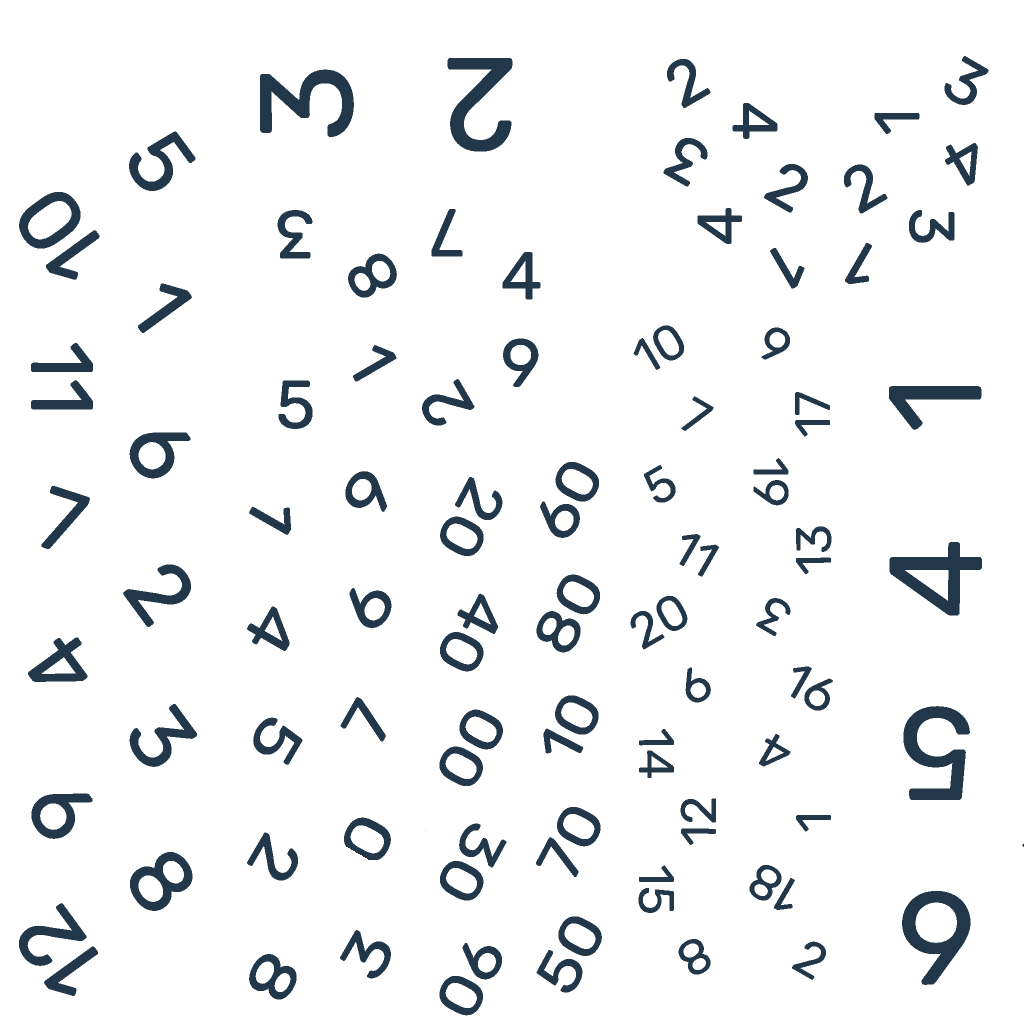
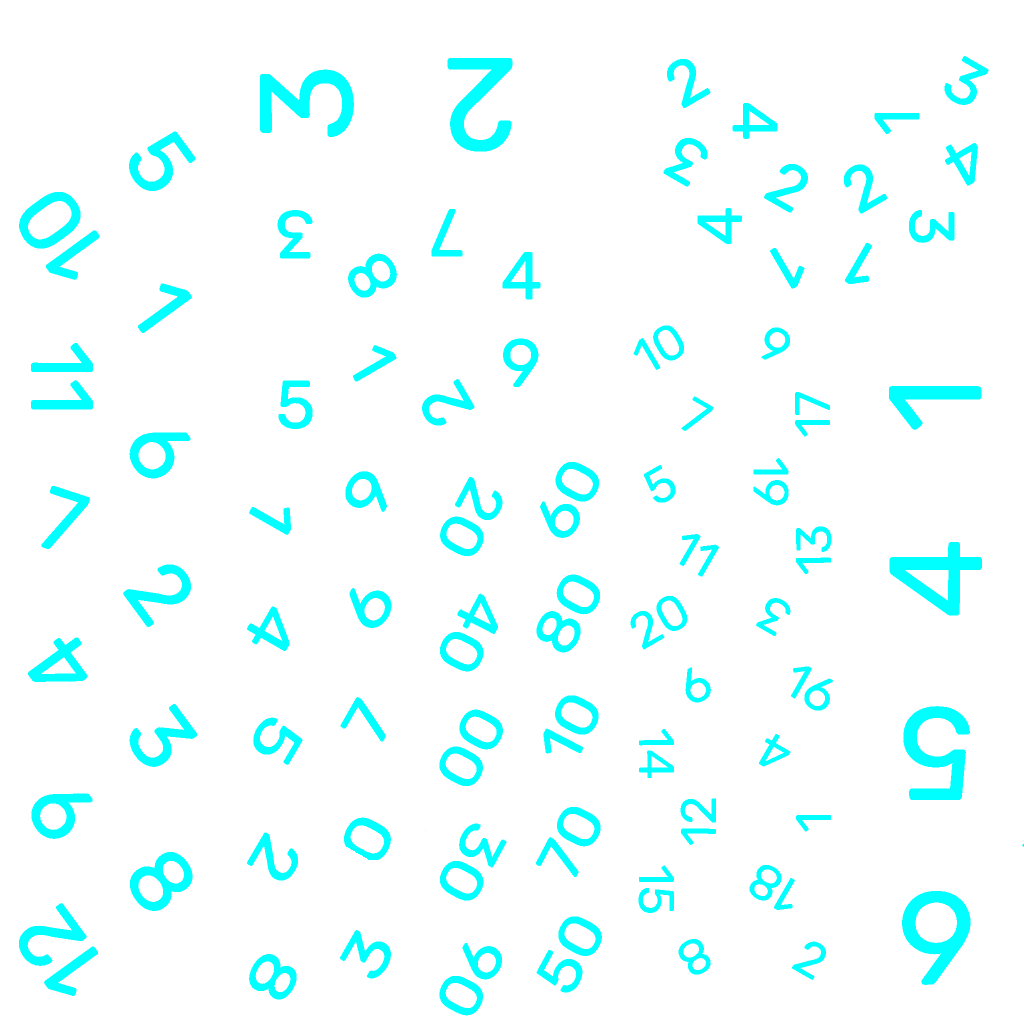
style(dice): match tens die to GM Map Manager button and darken ones die by 50%

diff --git a/client/test/PercentileDiceColors.test.js b/client/test/PercentileDiceColors.test.js
@@ -1,0 +1,114 @@
+import { describe, it, expect } from 'vitest';
+import fs from 'fs';
+import path from 'path';
+import sharp from 'sharp';
+import { calculatePercentileRoll } from '../src/utils/diceUtils.js';
+
+describe('Percentile Dice Custom Colors', () => {
+  const rpgPath = path.resolve(__dirname, '../src/views/RpgVttView.vue');
+  const spacePath = path.resolve(__dirname, '../src/views/SpaceVttView.vue');
+  const rpgContent = fs.readFileSync(rpgPath, 'utf-8');
+  const spaceContent = fs.readFileSync(spacePath, 'utf-8');
+
+  describe('3D Dice Themes', () => {
+    it('custom-tens diffuse texture has numbers colored #00ffff matching GM Map manager text', async () => {
+      const diffPath = path.resolve(__dirname, '../public/assets/dice-box/themes/custom-tens/diffuse-light.png');
+      expect(fs.existsSync(diffPath)).toBe(true);
+      const { data } = await sharp(diffPath).raw().toBuffer({ resolveWithObject: true });
+      let foundMatchingPixel = false;
+      for (let i = 0; i < data.length; i += 4) {
+        if (data[i + 3] > 200) {
+          // Check for #00ffff (r=0, g=255, b=255)
+          if (data[i] === 0 && data[i + 1] === 255 && data[i + 2] === 255) {
+            foundMatchingPixel = true;
+            break;
+          }
+        }
+      }
+      expect(foundMatchingPixel).toBe(true);
+    });
+
+    it('custom-ones diffuse texture retains original #77d19e numbers', async () => {
+      const diffPath = path.resolve(__dirname, '../public/assets/dice-box/themes/custom-ones/diffuse-light.png');
+      expect(fs.existsSync(diffPath)).toBe(true);
+      const { data } = await sharp(diffPath).raw().toBuffer({ resolveWithObject: true });
+      let foundMatchingPixel = false;
+      for (let i = 0; i < data.length; i += 4) {
+        if (data[i + 3] > 200) {
+          // Check for #77d19e (r=0x77=119, g=0xd1=209, b=0x9e=158)
+          if (data[i] === 0x77 && data[i + 1] === 0xd1 && data[i + 2] === 0x9e) {
+            foundMatchingPixel = true;
+            break;
+          }
+        }
+      }
+      expect(foundMatchingPixel).toBe(true);
+    });
+  });
+
+  describe('VTT Views Dice Configurations', () => {
+    it('configures tens die with GM Map Manager background #082d33 and ones die 50% darker #111c25 in RpgVttView', () => {
+      expect(rpgContent).toContain("theme: 'custom-tens', themeColor: '#082d33'");
+      expect(rpgContent).toContain("theme: 'custom-ones', themeColor: '#111c25'");
+      expect(rpgContent).not.toContain("theme: 'custom-tens', themeColor: '#77d19e'");
+      expect(rpgContent).not.toContain("theme: 'custom-ones', themeColor: '#182734'");
+    });
+
+    it('configures tens die with GM Map Manager background #082d33 and ones die 50% darker #111c25 in SpaceVttView', () => {
+      expect(spaceContent).toContain("theme: 'custom-tens', themeColor: '#082d33'");
+      expect(spaceContent).toContain("theme: 'custom-ones', themeColor: '#111c25'");
+      expect(spaceContent).not.toContain("theme: 'custom-tens', themeColor: '#77d19e'");
+      expect(spaceContent).not.toContain("theme: 'custom-ones', themeColor: '#182734'");
+    });
+  });
+
+  describe('calculatePercentileRoll with updated colors', () => {
+    it('correctly calculates roll with tens #082d33 and ones #111c25 regardless of order', () => {
+      const roll1 = calculatePercentileRoll([
+        { value: 6, themeColor: '#082d33' },
+        { value: 4, themeColor: '#111c25' }
+      ]);
+      expect(roll1).toEqual({
+        total: 64,
+        tens: 6,
+        ones: 4,
+        valid: true
+      });
+
+      const roll2 = calculatePercentileRoll([
+        { value: 7, themeColor: '#111c25' },
+        { value: 3, themeColor: '#082d33' }
+      ]);
+      expect(roll2).toEqual({
+        total: 37,
+        tens: 3,
+        ones: 7,
+        valid: true
+      });
+    });
+
+    it('supports alternative 50% darker color #0c141a as well as legacy colors', () => {
+      const rollAlt = calculatePercentileRoll([
+        { value: 9, themeColor: '#0c141a' },
+        { value: 2, themeColor: '#082d33' }
+      ]);
+      expect(rollAlt).toEqual({
+        total: 29,
+        tens: 2,
+        ones: 9,
+        valid: true
+      });
+
+      const rollLegacy = calculatePercentileRoll([
+        { value: 8, themeColor: '#182734' },
+        { value: 5, themeColor: '#77d19e' }
+      ]);
+      expect(rollLegacy).toEqual({
+        total: 58,
+        tens: 5,
+        ones: 8,
+        valid: true
+      });
+    });
+  });
+});

diff --git a/client/src/views/SpaceVttView.vue b/client/src/views/SpaceVttView.vue
@@ -1694,8 +1694,8 @@ async function rollPercentile() {
 
   try {
     const results = await executeQueuedDiceRoll(diceBox, [
-      { sides: 10, theme: 'custom-tens', themeColor: '#77d19e', qty: 1 }, // Tens (lighter colored die)
-      { sides: 10, theme: 'custom-ones', themeColor: '#182734', qty: 1 }  // Ones (darker colored die)
+      { sides: 10, theme: 'custom-tens', themeColor: '#082d33', qty: 1 }, // Tens (GM Map manager color)
+      { sides: 10, theme: 'custom-ones', themeColor: '#111c25', qty: 1 }  // Ones (50% darker die)
     ]);
     const rollSummary = calculatePercentileRoll(results);
     if (rollSummary.valid) {
@@ -2376,8 +2376,8 @@ async function executeSnapFlip(options = {}) {
     const diceBox = await getReadyDiceBox();
     try {
       const results = await executeQueuedDiceRoll(diceBox, [
-        { sides: 10, theme: 'custom-tens', themeColor: '#77d19e', qty: 1 },
-        { sides: 10, theme: 'custom-ones', themeColor: '#182734', qty: 1 },
+        { sides: 10, theme: 'custom-tens', themeColor: '#082d33', qty: 1 },
+        { sides: 10, theme: 'custom-ones', themeColor: '#111c25', qty: 1 },
       ]);
       const rollSummary = calculatePercentileRoll(results);
       if (rollSummary.valid) roll = rollSummary.total;
@@ -2536,8 +2536,8 @@ async function executeSlingshot(options = {}) {
 
       try {
         const results = await executeQueuedDiceRoll(diceBox, [
-          { sides: 10, theme: 'custom-tens', themeColor: '#77d19e', qty: 1 },
-          { sides: 10, theme: 'custom-ones', themeColor: '#182734', qty: 1 },
+          { sides: 10, theme: 'custom-tens', themeColor: '#082d33', qty: 1 },
+          { sides: 10, theme: 'custom-ones', themeColor: '#111c25', qty: 1 },
         ]);
         const rollSummary = calculatePercentileRoll(results);
         if (rollSummary.valid) {
@@ -2667,8 +2667,8 @@ async function rollCrewGCheck() {
 
     try {
       const results = await executeQueuedDiceRoll(diceBox, [
-        { sides: 10, theme: 'custom-tens', themeColor: '#77d19e', qty: 1 },
-        { sides: 10, theme: 'custom-ones', themeColor: '#182734', qty: 1 },
+        { sides: 10, theme: 'custom-tens', themeColor: '#082d33', qty: 1 },
+        { sides: 10, theme: 'custom-ones', themeColor: '#111c25', qty: 1 },
       ]);
       const rollSummary = calculatePercentileRoll(results);
       if (rollSummary.valid) {
@@ -2728,8 +2728,8 @@ async function rollFlipAndBurnStaCheck() {
 
     try {
       const results = await executeQueuedDiceRoll(diceBox, [
-        { sides: 10, theme: 'custom-tens', themeColor: '#77d19e', qty: 1 },
-        { sides: 10, theme: 'custom-ones', themeColor: '#182734', qty: 1 },
+        { sides: 10, theme: 'custom-tens', themeColor: '#082d33', qty: 1 },
+        { sides: 10, theme: 'custom-ones', themeColor: '#111c25', qty: 1 },
       ]);
       const rollSummary = calculatePercentileRoll(results);
       if (rollSummary.valid) {
@@ -4404,7 +4404,7 @@ onBeforeUnmount(() => {
 }
 
 .percentile-hud-banner .hud-tens-val {
-  color: #77d19e;
+  color: #00ffff;
   font-weight: 700;
 }
 

diff --git a/client/test/diceUtils.test.js b/client/test/diceUtils.test.js
@@ -66,8 +66,8 @@ describe('calculatePercentileRoll', () => {
 
   it('calculates standard two-digit roll', () => {
     const raw = [
-      { value: 4, themeColor: '#77d19e' },
-      { value: 7, themeColor: '#182734' }
+      { value: 4, themeColor: '#082d33' },
+      { value: 7, themeColor: '#111c25' }
     ];
     const result = calculatePercentileRoll(raw);
     expect(result).toEqual({
@@ -80,8 +80,8 @@ describe('calculatePercentileRoll', () => {
 
   it('calculates single-digit roll when tens die is 0 or 10', () => {
     const raw = [
-      { value: 10, themeColor: '#77d19e' },
-      { value: 6, themeColor: '#182734' }
+      { value: 10, themeColor: '#082d33' },
+      { value: 6, themeColor: '#111c25' }
     ];
     const result = calculatePercentileRoll(raw);
     expect(result).toEqual({
@@ -94,8 +94,8 @@ describe('calculatePercentileRoll', () => {
 
   it('calculates round tens when ones die is 0 or 10', () => {
     const raw = [
-      { value: 8, themeColor: '#77d19e' },
-      { value: 0, themeColor: '#182734' }
+      { value: 8, themeColor: '#082d33' },
+      { value: 0, themeColor: '#111c25' }
     ];
     const result = calculatePercentileRoll(raw);
     expect(result).toEqual({
@@ -108,8 +108,8 @@ describe('calculatePercentileRoll', () => {
 
   it('calculates 100 for double zeros (00)', () => {
     const raw = [
-      { value: 0, themeColor: '#77d19e' },
-      { value: 10, themeColor: '#182734' }
+      { value: 0, themeColor: '#082d33' },
+      { value: 10, themeColor: '#111c25' }
     ];
     const result = calculatePercentileRoll(raw);
     expect(result).toEqual({
@@ -121,10 +121,10 @@ describe('calculatePercentileRoll', () => {
   });
 
   it('identifies tens and ones regardless of array order using themeColor', () => {
-    // Ones die first (#182734), Tens die second (#77d19e)
+    // Ones die first (#111c25), Tens die second (#082d33)
     const raw = [
-      { value: 3, themeColor: '#182734' },
-      { value: 5, themeColor: '#77d19e' }
+      { value: 3, themeColor: '#111c25' },
+      { value: 5, themeColor: '#082d33' }
     ];
     const result = calculatePercentileRoll(raw);
     expect(result).toEqual({
@@ -134,12 +134,23 @@ describe('calculatePercentileRoll', () => {
       valid: true
     });
 
-    // Also supports legacy ones color #22384a
-    const legacyRaw = [
+    // Also supports legacy ones colors #182734 and #22384a with tens #77d19e
+    const legacyRaw1 = [
+      { value: 3, themeColor: '#182734' },
+      { value: 5, themeColor: '#77d19e' }
+    ];
+    expect(calculatePercentileRoll(legacyRaw1)).toEqual({
+      total: 53,
+      tens: 5,
+      ones: 3,
+      valid: true
+    });
+
+    const legacyRaw2 = [
       { value: 3, themeColor: '#22384a' },
       { value: 5, themeColor: '#77d19e' }
     ];
-    expect(calculatePercentileRoll(legacyRaw)).toEqual({
+    expect(calculatePercentileRoll(legacyRaw2)).toEqual({
       total: 53,
       tens: 5,
       ones: 3,

diff --git a/client/src/utils/diceUtils.js b/client/src/utils/diceUtils.js
@@ -28,8 +28,8 @@ export function calculateDamageRoll(results) {
 
 /**
  * Processes settled die objects from @3d-dice/dice-box for percentile (d%) rolls.
- * The tens die is the lighter colored die (#77d19e, group 0).
- * The ones die is the darker colored die (#182734, legacy #22384a, group 1).
+ * The tens die uses the GM Map Manager button background (#082d33, numbers #00ffff, legacy #77d19e, group 0).
+ * The ones die is 50% darker (#111c25, legacy #182734/#22384a, numbers #77d19e, group 1).
  * On a d10 face showing 0 (raw value 0 or 10), the digit value is 0.
  * In Star Frontiers, rolling 00 (tens 0 and ones 0) is 100.
  * All other rolls are tensDigit * 10 + onesDigit.
@@ -47,10 +47,10 @@ export function calculatePercentileRoll(results) {
     return { total: 0, tens: 0, ones: 0, valid: false };
   }
 
-  // Find tens die (lighter colored die #77d19e, theme 'custom-tens', or group 0)
-  const tensDie = flatResults.find(d => d?.theme === 'custom-tens' || d?.themeColor === '#77d19e' || d?.groupId === 0) || flatResults[0];
-  // Find ones die (darker colored die #182734, legacy #22384a, theme 'custom-ones', or group 1)
-  const onesDie = flatResults.find(d => d !== tensDie && (d?.theme === 'custom-ones' || d?.themeColor === '#182734' || d?.themeColor === '#22384a' || d?.groupId === 1)) ||
+  // Find tens die (GM Map manager color #082d33, legacy #77d19e, theme 'custom-tens', or group 0)
+  const tensDie = flatResults.find(d => d?.theme === 'custom-tens' || d?.themeColor === '#082d33' || d?.themeColor === '#77d19e' || d?.groupId === 0) || flatResults[0];
+  // Find ones die (50% darker die #111c25, #0c141a, legacy #182734/#22384a, theme 'custom-ones', or group 1)
+  const onesDie = flatResults.find(d => d !== tensDie && (d?.theme === 'custom-ones' || d?.themeColor === '#111c25' || d?.themeColor === '#0c141a' || d?.themeColor === '#182734' || d?.themeColor === '#22384a' || d?.groupId === 1)) ||
     flatResults.find(d => d !== tensDie) ||
     flatResults[1];
 

diff --git a/server/build_centered_0_themes.js b/server/build_centered_0_themes.js
@@ -128,21 +128,21 @@ async function main() {
       .toBuffer();
   }
 
-  const tensDiffuseBuffer = await makeDiffuse(0x77, 0xd1, 0x9e); // #77d19e
-  const onesDiffuseBuffer = await makeDiffuse(0x22, 0x38, 0x4a); // #22384a
+  const tensDiffuseBuffer = await makeDiffuse(0x00, 0xff, 0xff); // #00ffff (matches GM Map manager font)
+  const onesDiffuseBuffer = await makeDiffuse(0x77, 0xd1, 0x9e); // #77d19e (numbers left as is)
 
   // --- 5. Write to both custom-tens and custom-ones ---
   const tensDir = path.join(root, 'public/assets/dice-box/themes/custom-tens');
   fs.writeFileSync(path.join(tensDir, 'diffuse-light.png'), tensDiffuseBuffer);
   fs.writeFileSync(path.join(tensDir, 'diffuse-dark.png'), tensDiffuseBuffer);
   fs.writeFileSync(path.join(tensDir, 'normal.png'), normBuffer);
-  console.log('Saved updated textures to custom-tens (#77d19e)');
+  console.log('Saved updated textures to custom-tens (#00ffff)');
 
   const onesDir = path.join(root, 'public/assets/dice-box/themes/custom-ones');
   fs.writeFileSync(path.join(onesDir, 'diffuse-light.png'), onesDiffuseBuffer);
   fs.writeFileSync(path.join(onesDir, 'diffuse-dark.png'), onesDiffuseBuffer);
   fs.writeFileSync(path.join(onesDir, 'normal.png'), normBuffer);
-  console.log('Saved updated textures to custom-ones (#22384a)');
+  console.log('Saved updated textures to custom-ones (#77d19e)');
 
   // --- 6. Write custom-dmg theme (#f29249 numbers) ---
   const dmgDiffuseBuffer = await makeDiffuse(0xf2, 0x92, 0x49); // #f29249

diff --git a/client/src/views/RpgVttView.vue b/client/src/views/RpgVttView.vue
@@ -1073,8 +1073,8 @@ async function rollPercentile() {
 
   try {
     const results = await executeQueuedDiceRoll(diceBox, [
-      { sides: 10, theme: 'custom-tens', themeColor: '#77d19e', qty: 1 }, // Tens (lighter colored die)
-      { sides: 10, theme: 'custom-ones', themeColor: '#182734', qty: 1 }  // Ones (darker colored die)
+      { sides: 10, theme: 'custom-tens', themeColor: '#082d33', qty: 1 }, // Tens (GM Map manager color)
+      { sides: 10, theme: 'custom-ones', themeColor: '#111c25', qty: 1 }  // Ones (50% darker die)
     ]);
     const rollSummary = calculatePercentileRoll(results);
     if (rollSummary.valid) {
@@ -1982,8 +1982,8 @@ async function onAdversaryRollAttack({ action, token }) {
 
   try {
     const results = await executeQueuedDiceRoll(diceBox, [
-      { sides: 10, theme: 'custom-tens', themeColor: '#77d19e', qty: 1 },
-      { sides: 10, theme: 'custom-ones', themeColor: '#182734', qty: 1 }
+      { sides: 10, theme: 'custom-tens', themeColor: '#082d33', qty: 1 },
+      { sides: 10, theme: 'custom-ones', themeColor: '#111c25', qty: 1 }
     ]);
     const rollSummary = calculatePercentileRoll(results);
     if (rollSummary.valid) {
@@ -3256,7 +3256,7 @@ onBeforeUnmount(() => {
 }
 
 .percentile-hud-banner .hud-tens-val {
-  color: #77d19e;
+  color: #00ffff;
   font-weight: 700;
 }
 

diff --git a/client/test/safeDiceRoller.test.js b/client/test/safeDiceRoller.test.js
@@ -11,8 +11,8 @@ describe('safeDiceRoller with executeQueuedDiceRoll', () => {
   describe('generateSyntheticRoll', () => {
     it('generates 2 d10 dice for percentile notation with valid formatting', () => {
       const notation = [
-        { sides: 10, theme: 'custom-tens', themeColor: '#77d19e', qty: 1 },
-        { sides: 10, theme: 'custom-ones', themeColor: '#182734', qty: 1 }
+        { sides: 10, theme: 'custom-tens', themeColor: '#082d33', qty: 1 },
+        { sides: 10, theme: 'custom-ones', themeColor: '#111c25', qty: 1 }
       ];
       const results = generateSyntheticRoll(notation);
       expect(results.length).toBe(2);
